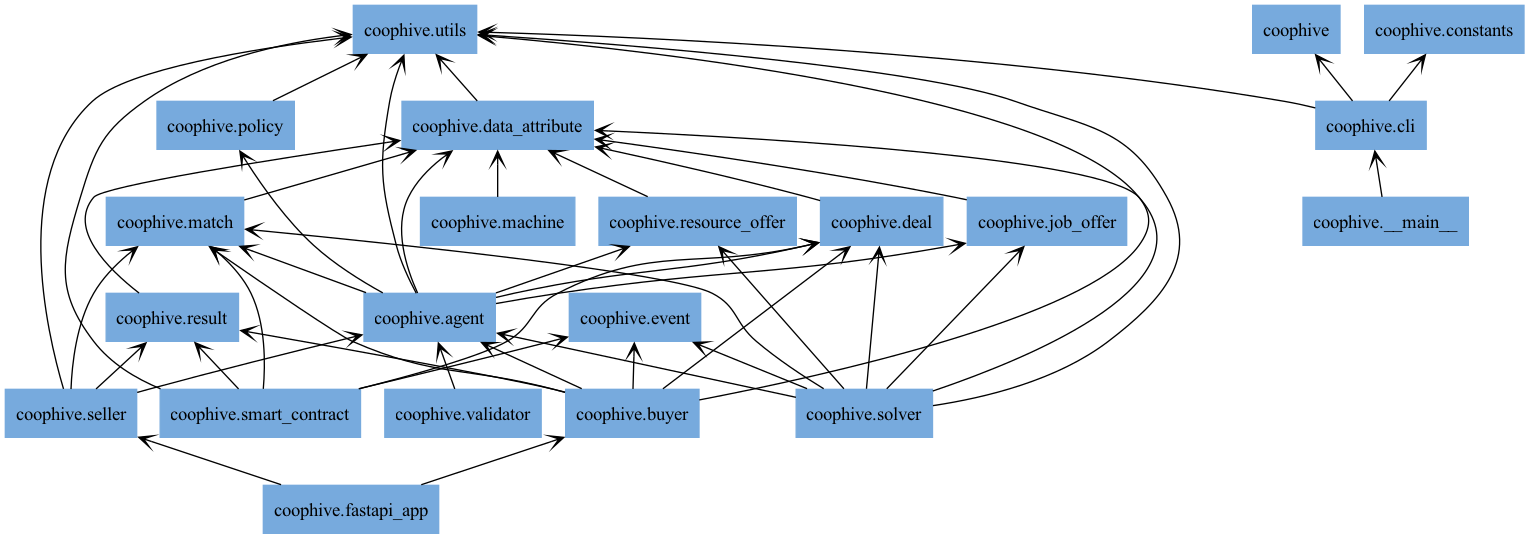
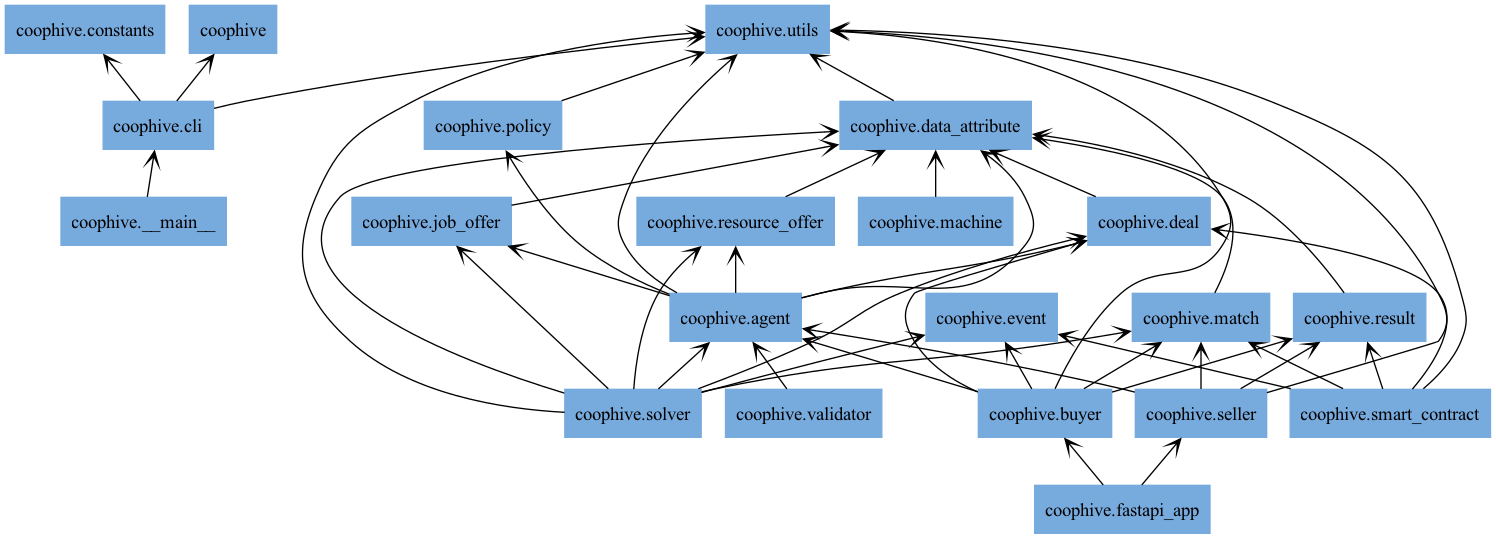
fix: remove import

diff --git a/coophive/agent.py b/coophive/agent.py
@@ -9,7 +9,6 @@ from dataclasses import dataclass
 from coophive.data_attribute import DataAttribute
 from coophive.deal import Deal
 from coophive.job_offer import JobOffer
-from coophive.match import Match
 from coophive.policy import Policy
 from coophive.resource_offer import ResourceOffer
 from coophive.utils import Tx, hash_dict
